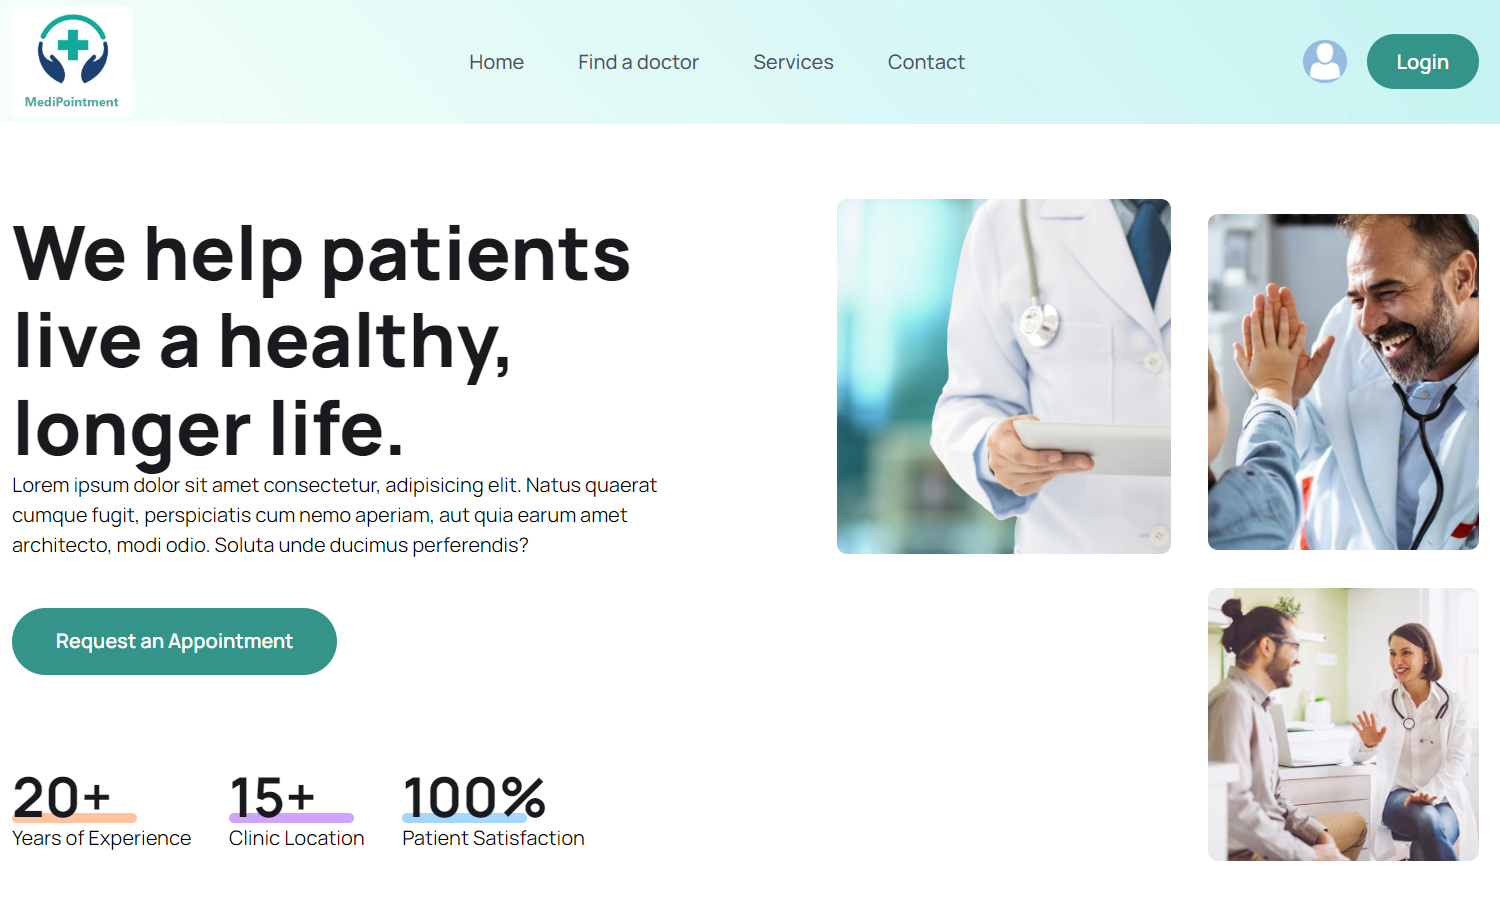
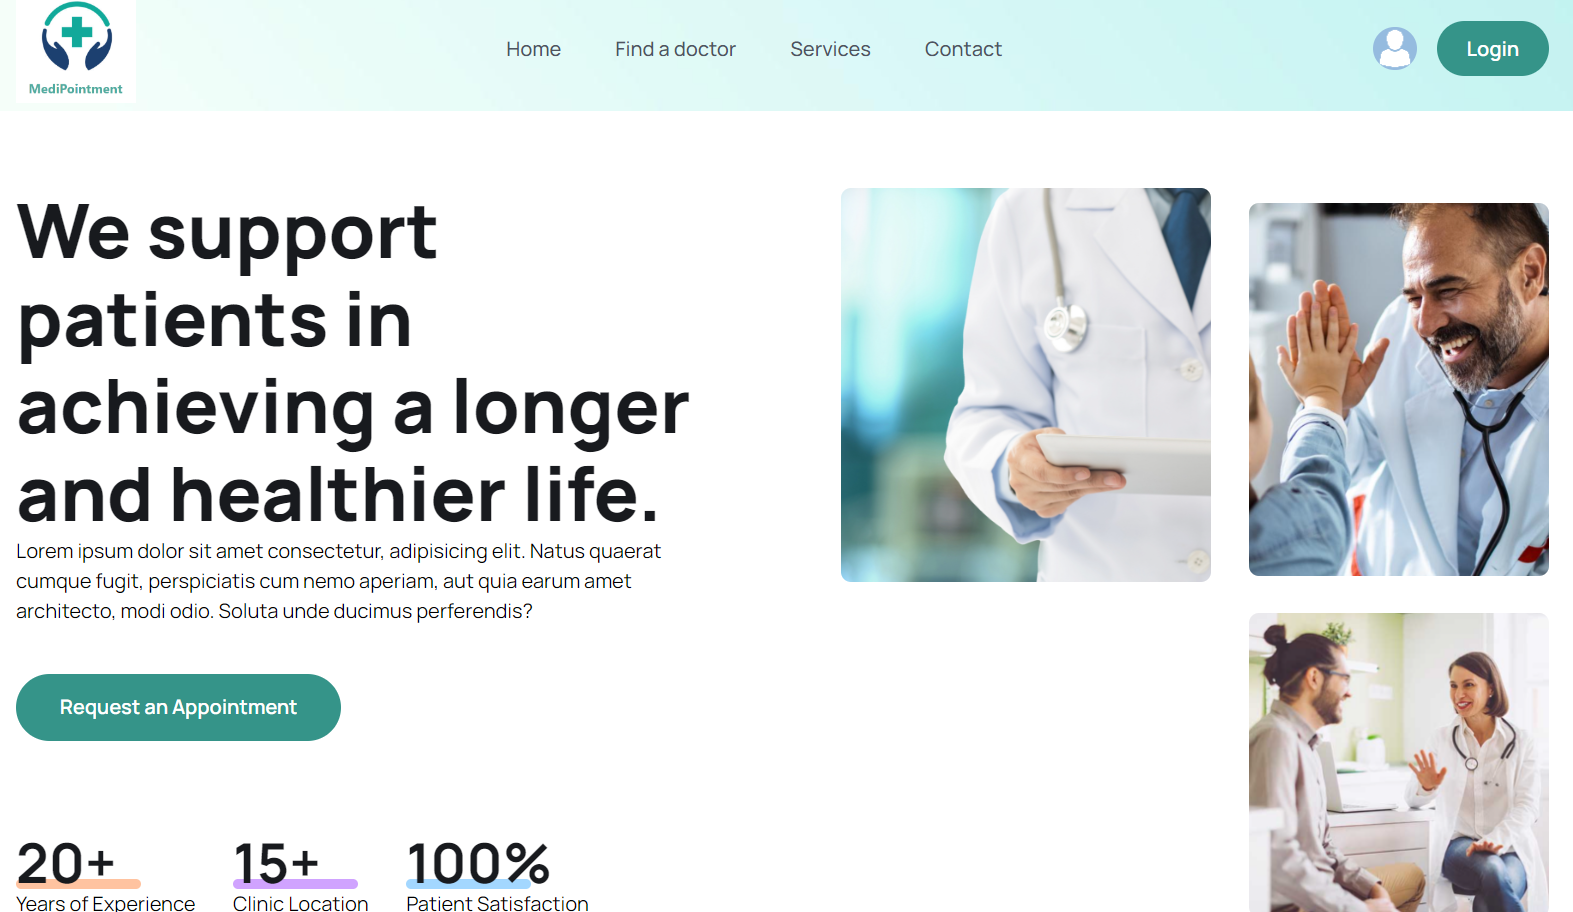
refresh readme

diff --git a/frontend/src/pages/Home.jsx b/frontend/src/pages/Home.jsx
@@ -28,8 +28,7 @@ const Home = () => {
                         <div>
                             <div className=' lg:w-[570px]'>
                                 <h1 className='text-headingColor text-[36px] leading-[46px] md:text-[60px] md:leading-[70px] font-[800] '>
-                                    We help patients live a healthy, longer
-                                    life.
+                                    We support patients in achieving a longer and healthier life.
                                 </h1>
                                 <p className='text__para'>
                                     Lorem ipsum dolor sit amet consectetur,

diff --git a/README.md b/README.md
@@ -10,7 +10,6 @@ Welcome to the Medical Appointment Booking Website repository! This web applicat
 - [Usage](#usage)
 - [Technologies](#technologies)
 - [Contributing](#contributing)
-- [License](#license)
 
 ## Features
 
@@ -57,3 +56,23 @@ Follow these steps to set up the project locally:
 
    ```bash
    npm run dev
+
+## Technologies
+
+- **Frontend:** 
+    - React.js
+    - React Router for routing
+    - Stripe Elements for payment processing
+- **Backend:** 
+    - Node.js with Express.js
+    - MongoDB for database storage
+    - JSON Web Tokens (JWT) for authentication
+    - Stripe API for payment handling
+
+## Contributing
+Contributions are welcome! If you'd like to contribute to this project, please follow these guidelines:
+
+- Fork the repository.
+- Create a new branch for your feature or bug fix.
+- Make your changes and ensure the code is properly tested.
+- Submit a pull request with a detailed description of your changes.
